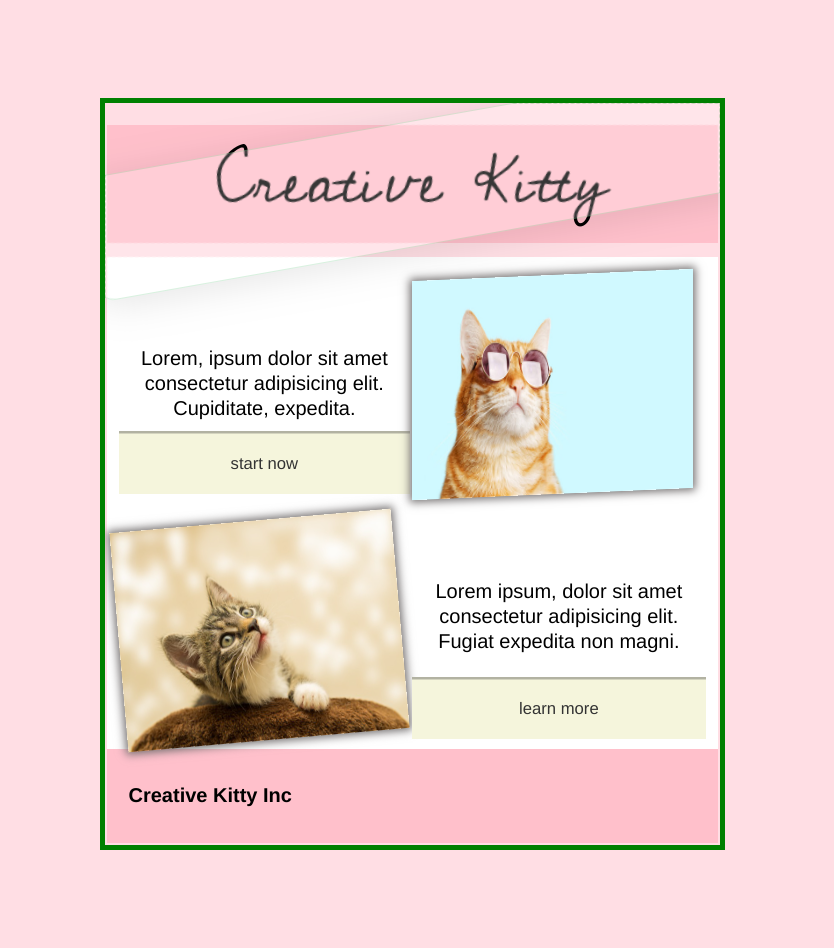
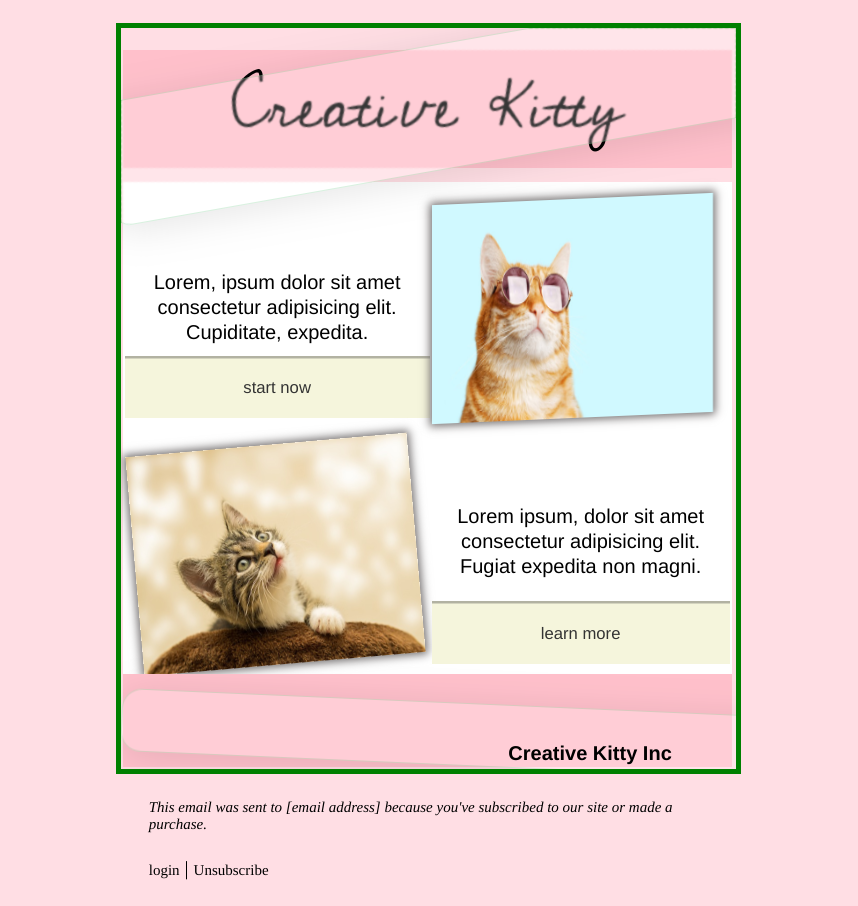
feat: add option to bottom of temp

diff --git a/public/index.html b/public/index.html
@@ -23,6 +23,7 @@
       text-align: center;
     }
     * {
+      text-decoration: none;
       margin: 0;
       padding: 0;
       box-sizing: border-box;
@@ -72,7 +73,6 @@
       margin-top: 1rem;
       justify-content: center;
       align-items: center;
-      padding: 0 0.5rem;
     }
     .content-container {
       display: flex;
@@ -88,6 +88,21 @@
       border: 4px solid indigo;
     }
 
+    #glass-piece-footer {
+      height: 50px;
+      z-index:997;
+      width: 700px;
+      transform: rotate(2.5deg);
+      position: absolute;
+      bottom: 0;
+      left:0;
+      background: rgba(255, 255, 255, 0.21);
+      border-radius: 16px;
+      box-shadow: 0 4px 30px rgba(0, 0, 0, 0.1);
+      backdrop-filter: blur(0); /*blur*/
+      -webkit-backdrop-filter: blur(0);
+      border: 1px solid rgba(46, 180, 87, 0.19);
+    }
     #glass-piece {
       height: 100px;
       width: 700px;
@@ -173,13 +188,12 @@
         </tr>
         <!-- glass piece -->
         <td id="glass-piece"></td>
-
         <!-- row2 -->
         <tr>
           <td class="table-data-container-meat">
             <table class="content-table content table-content-meat">
               <tr>
-                <td style="position:relative">
+                <td style="position: relative">
                   <p class="para">
                     Lorem, ipsum dolor sit amet consectetur adipisicing elit.
                     Cupiditate, expedita.
@@ -195,7 +209,10 @@
                 </td>
               </tr>
               <tr>
-                <td class="content-container three" style="margin-top:1.25rem;">
+                <td
+                  class="content-container three"
+                  style="margin-top: 1.25rem; margin-left: 0.5rem"
+                >
                   <img
                     src="./media/lookupca.jpg"
                     alt=""
@@ -215,14 +232,40 @@
         </tr>
         <!-- row3 -->
         <tr>
-          <td class="table-data-container-footer">
-            <table class="content-table content table-content">
+          <td class="table-data-container-footer" style="position: relative">
+            <td id="glass-piece-footer"></td>
+            <table class="content-table content table-content" style="position:relative;width:400px;">
               <tr>
-                <td>
-                  <h3 style="padding-left:1rem;">Creative Kitty Inc</h3>
+                <td style="position: absolute; bottom: 10px; right: 5px;z-index:999;">
+                  <h3>
+                    Creative Kitty Inc
+                  </h3>
                 </td>
               </tr>
             </table>
+          </td>
+        </tr>
+      </table>
+      <!-- disclaimer -->
+      <table style="width: 450px; margin: 1rem 0">
+        <tr>
+          <td>
+            <em
+              ><p style="font-size: 12px">
+                This email was sent to [email address] because you've subscribed
+                to our site or made a purchase.
+              </p></em
+            >
+          </td>
+        </tr>
+      </table>
+      <!-- login/unsubscribe -->
+      <table style="width: 450px">
+        <tr>
+          <td class="flex-row-center-start">
+            <a href="" style="color: #000; font-size: 12px">login</a>
+            |
+            <a href="" style="color: #000; font-size: 12px">Unsubscribe</a>
           </td>
         </tr>
       </table>
